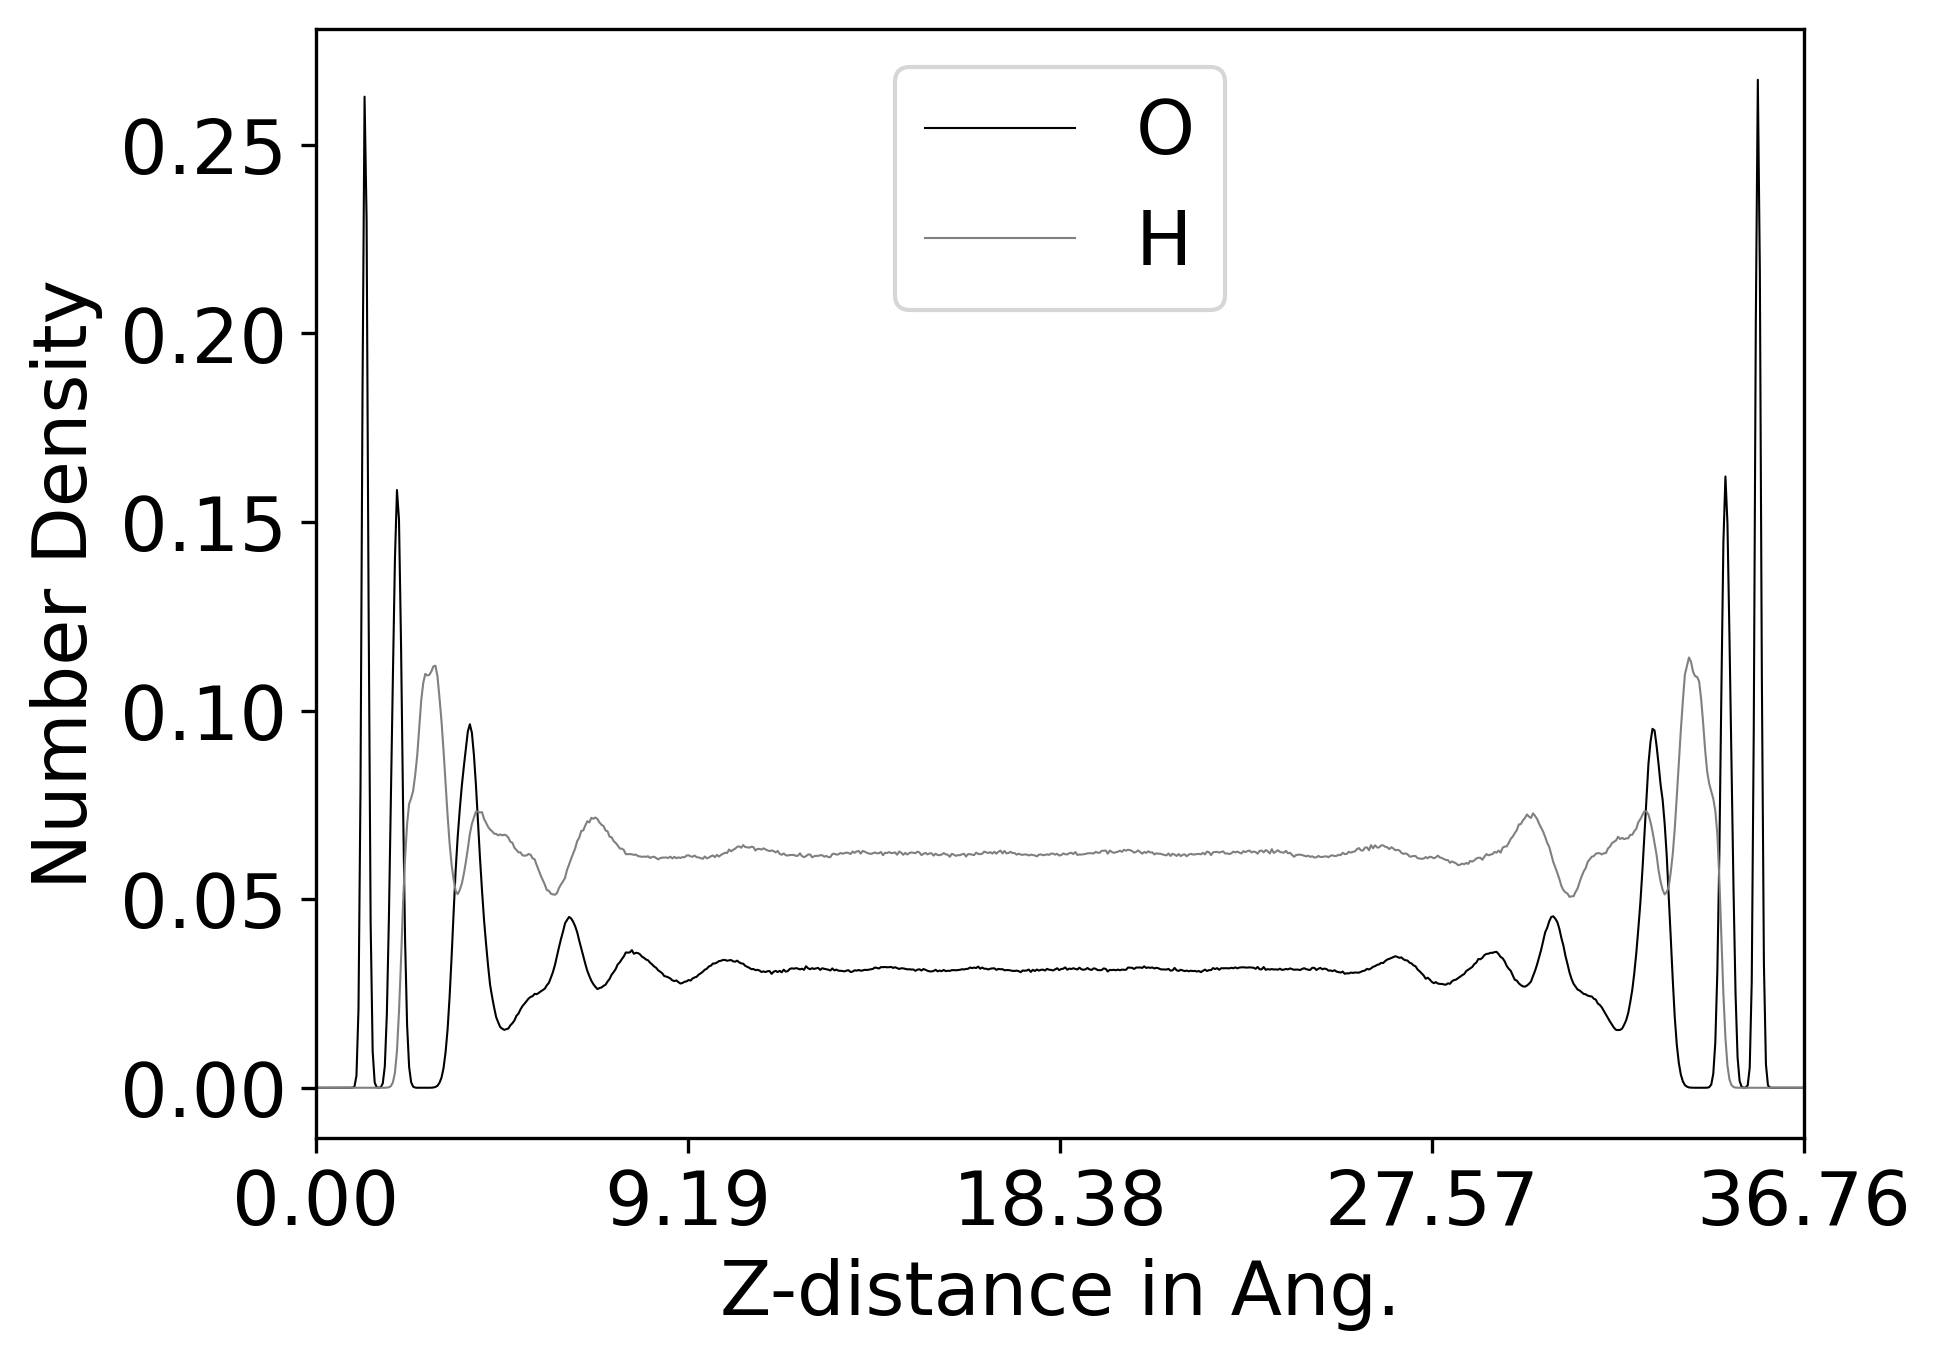
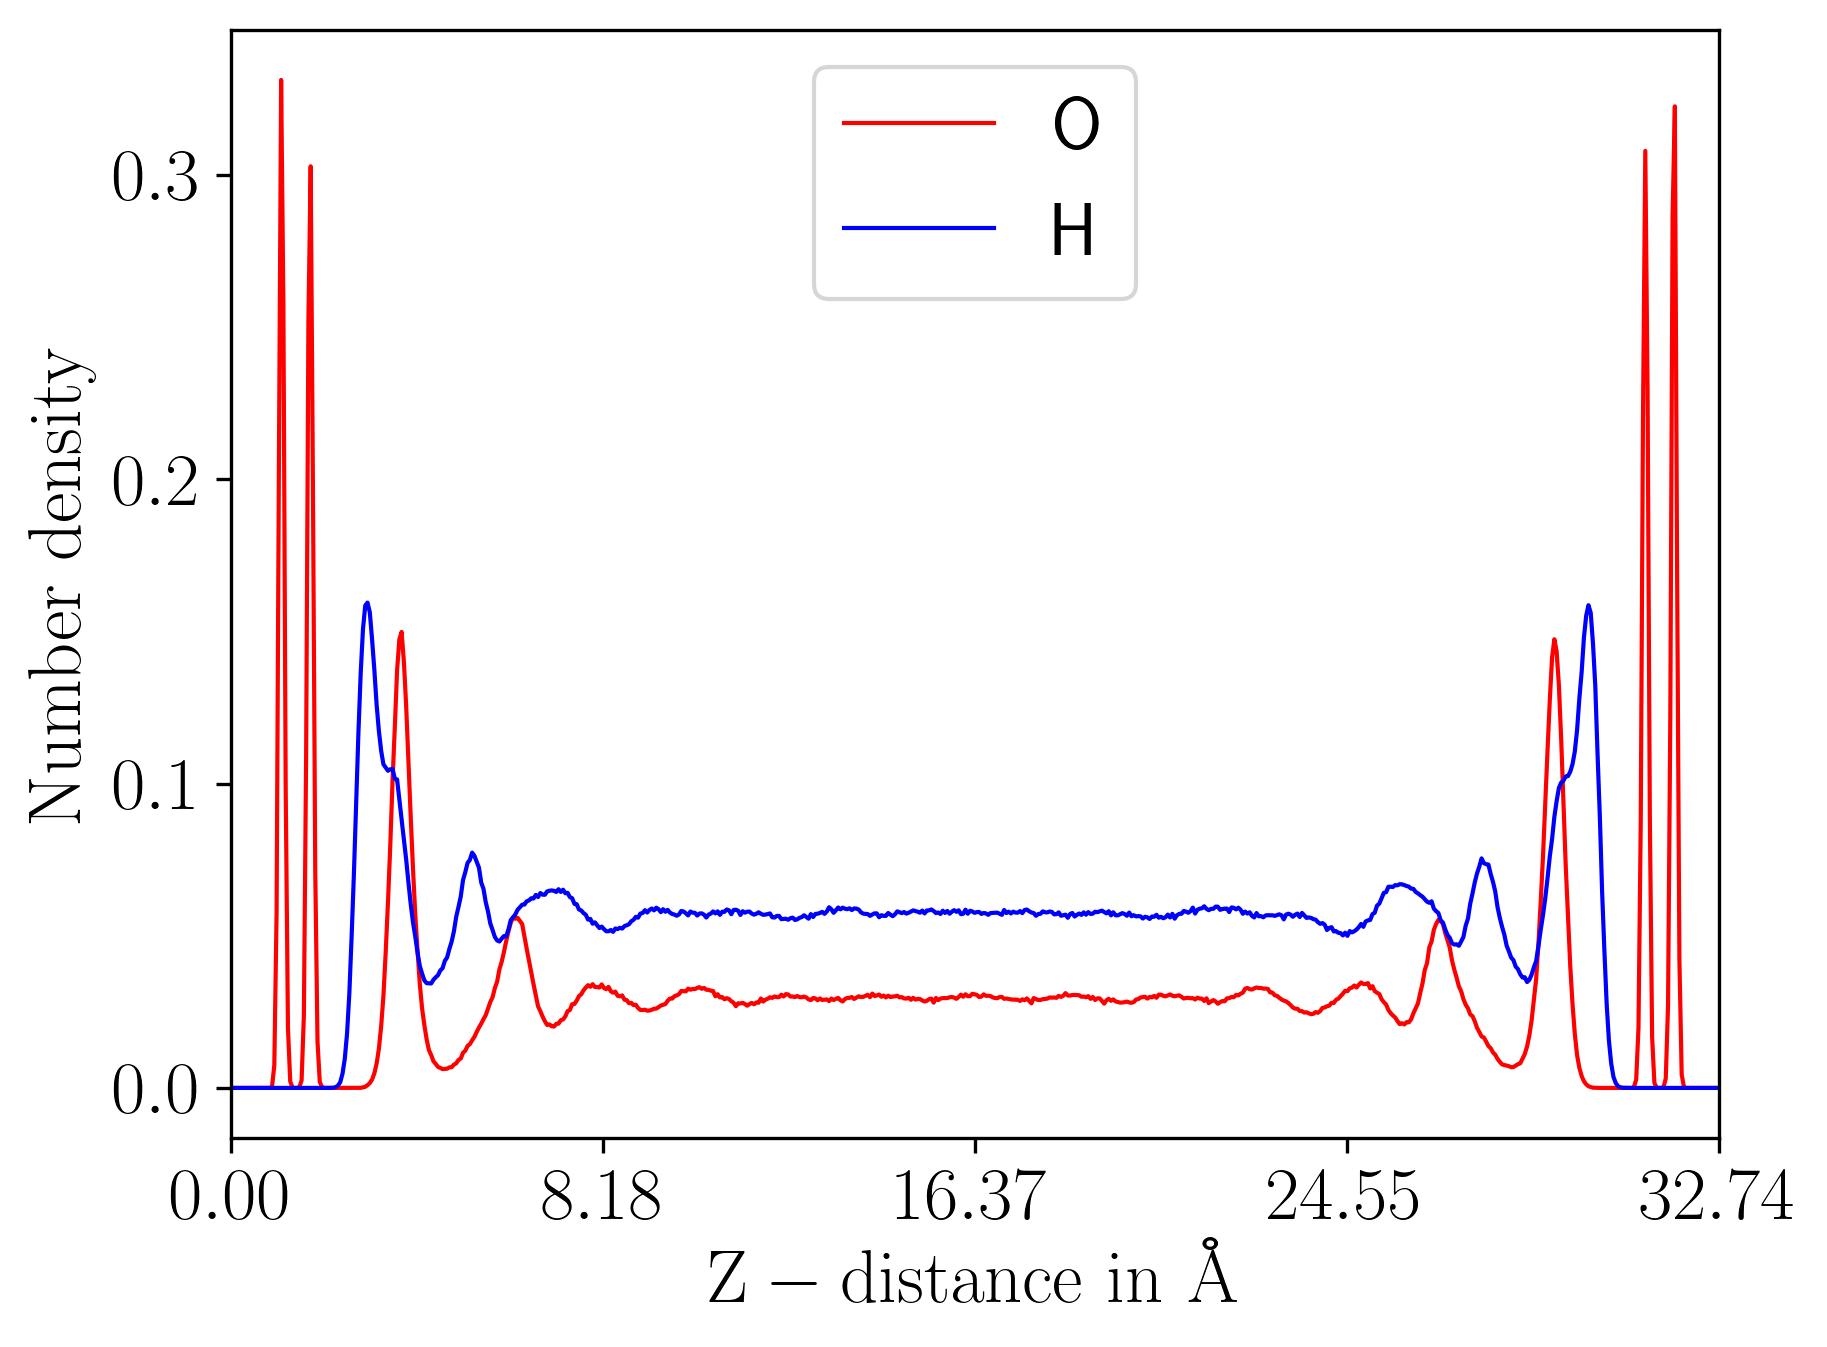
5 layer DP

diff --git a/DENSITY/post_process.py b/DENSITY/post_process.py
@@ -1,4 +1,5 @@
 #%%
+import sys
 from dataclasses import dataclass
 from pathlib import Path
 import numpy as np
@@ -6,7 +7,7 @@ import pandas as pd
 from matplotlib import pyplot as plt
 import matplotlib
 font = {'size'   : 18}
-#matplotlib.rc('text', usetex=True)
+matplotlib.rc('text', usetex=True)
 matplotlib.rc('font', **font)
 # %%
 @dataclass
@@ -49,29 +50,50 @@ class TrajProcessor():
 
     def _identify_cus_bri(self, idx):
         atoms = self.init_strucs[idx]
-        max_Ir_Z = max([atom.z for atom in atoms if atom.symbol == 'Ir'])
-        #These Iridiums are expected to stay put
-        Ir_bri = np.array([atom.index for atom in atoms if (atom.symbol == 'Ir') and (atom.z == max_Ir_Z)])
-        Ir_cus = np.array([atom.index for atom in atoms if (atom.symbol == 'Ir' and (np.round(max_Ir_Z - atom.z, 4) == 0.0953) and atom.index not in Ir_bri)])
-        #Everything else can be dynamic and is counted in a general way
-        O_cus = np.array([atom.index for atom in atoms if (atom.symbol == 'O' and atom.z > max_Ir_Z and min(atoms.get_distances(atom.index, Ir_cus, mic=True))<2.4 and min(atoms.get_distances(atom.index, Ir_bri, mic=True))>2.4)])
-        return max_Ir_Z, Ir_bri, Ir_cus, O_cus
+        O_cus, O_bri = [], []
+        O_cus_Z = [np.round(self.iridium_surf_Zs[0]+1.99074, 2),
+                   np.round(self.iridium_surf_Zs[1]-2.00916, 2)]
+        O_bri_Z = [np.round(self.iridium_surf_Zs[0]+1.23, 2),
+                   np.round(self.iridium_surf_Zs[1]-1.23, 2)]
+        for atom in atoms:
+            if atom.symbol == 'O':
+                if np.round(atom.z, 2) in O_cus_Z:
+                    O_cus.append(atom.index)
+                elif np.round(atom.z, 2) in O_bri_Z:
+                    O_bri.append(atom.index)
+        return O_cus, O_bri
 
-    def _count_bridge(self, atoms, Ir_bri, Ir_cus, max_Ir_Z):
-        O_bri = np.array([atom.index for atom in atoms if (atom.symbol == 'O' and atom.z > max_Ir_Z and min(atoms.get_distances(atom.index, Ir_bri, mic=True))<2.4 and min(atoms.get_distances(atom.index, Ir_cus, mic=True))>2.4)])
-        H_interface = np.array([atom.index for atom in atoms if (atom.symbol == 'H') and (atom.z < max_Ir_Z+4.0) and (atom.z > max_Ir_Z)])
-        H_bri = np.array([atom.index for atom in atoms if (atom.index in H_interface ) and min(atoms.get_distances(atom.index, O_bri, mic=True))<1.1])
-        bri_O_H2, bri_O_H, bri_O_c =[], [], []
+    def _count_bridge(self, atoms, O_bri):
+        H_interface = np.array([atom.index for atom in atoms if
+                                (atom.symbol == 'H') and
+                                ((atom.z < self.iridium_surf_Zs[0]+4.0) or
+                                 (atom.z > self.iridium_surf_Zs[1]-4.0))])
+        H_bri = np.array([atom.index for atom in atoms if
+                            atom.index in H_interface and
+                            min(atoms.get_distances(atom.index, O_bri, mic=True))<=1.1])
+        bri_OH2, bri_OH, bri_Oc = [], [], []
         if len(H_bri)>0:
-            bri_O_H2 = [atom.index for atom in atoms if atom.index in O_bri and len([d for d in atoms.get_distances(atom.index, H_bri, mic=True) if d<1.1])==2]
-            bri_O_H = [atom.index for atom in atoms if atom.index in O_bri and len([d for d in atoms.get_distances(atom.index, H_bri, mic=True) if d<1.1])==1]
-            bri_O_c = [atom.index for atom in atoms if atom.index in O_bri and len([d for d in atoms.get_distances(atom.index, H_bri, mic=True) if d<1.1])==0]
+            for atom in atoms:
+                if atom.index in O_bri:
+                    no_of_H = len([d for d in
+                            atoms.get_distances(atom.index, H_bri, mic=True)
+                            if d<1.1])
+                    if no_of_H==2:
+                        bri_OH2.append(atom.index)
+                    if no_of_H==1:
+                        bri_OH.append(atom.index)
+                    if no_of_H==0:
+                        bri_Oc.append(atom.index)
         else:
-            bri_O_c = O_bri
-        return atoms.info['time'], atoms.info['md_energy'], O_bri, bri_O_H2, bri_O_H, bri_O_c
+            bri_Oc = O_bri
+        return atoms.info['time'], atoms.info['md_energy'], bri_OH2, bri_OH, bri_Oc
 
     def _count_cus(self, atoms, Ir_bri, Ir_cus, max_Ir_Z):
-        O_cus = np.array([atom.index for atom in atoms if (atom.symbol == 'O' and atom.z > max_Ir_Z and min(atoms.get_distances(atom.index, Ir_cus, mic=True))<2.4 and min(atoms.get_distances(atom.index, Ir_bri, mic=True))>2.4)])
+        O_cus = np.array([atom.index for atom in
+                          atoms if (atom.symbol == 'O' and
+                          atom.z > max_Ir_Z and
+                          min(atoms.get_distances(atom.index, Ir_cus, mic=True))<2.4 and
+                          min(atoms.get_distances(atom.index, Ir_bri, mic=True))>2.4)])
         H_interface = np.array([atom.index for atom in atoms if (atom.symbol == 'H') and (atom.z < max_Ir_Z+4.0) and (atom.z > max_Ir_Z)])
         O_interface = np.array([atom.index for atom in atoms if (atom.symbol == 'O') and (atom.z < max_Ir_Z+4.0) and (atom.z > max_Ir_Z)])
 
@@ -88,16 +110,22 @@ class TrajProcessor():
                                 path_save_plot=None):
         for i, index in enumerate(range(self.sim_indices[0], 1+self.sim_indices[1], 1)):
             print("Building surface comp df for index ", index)
-            _max_Ir_Z, _Ir_bri, _Ir_cus, _O_cus = self._identify_cus_bri(idx=i)
+            O_cus_all, O_bri_all = self._identify_cus_bri(idx=i)
+            print("Identified ", len(O_bri_all), "bridge and ", len(O_cus_all), "cus oxygens")
             bri_df, cus_df = [], []
             for atoms in self.trajs[i][::self.skip_n_frames]:
                 free_ener = self.calc_free_energy(atoms)
-                time, ener, O_bri, bri_O_H2, bri_O_H, bri_O_c =  self._count_bridge(atoms=atoms, Ir_bri=_Ir_bri, Ir_cus=_Ir_cus, max_Ir_Z=_max_Ir_Z)
-                append_this_bri = pd.DataFrame([{'Time': time, 'Tot_Energy': ener, 'Free_Energy':free_ener, 'OH2': len(bri_O_H2), 'OH': len(bri_O_H), 'O': len(bri_O_c), 'All': len(O_bri)}])
-                bri_df.append(append_this_bri)
-                time, ener, O_cus, cus_O_H2, cus_O_H, cus_O_c, cus_O_O =  self._count_cus(atoms=atoms, Ir_bri=_Ir_bri, Ir_cus=_Ir_cus, max_Ir_Z=_max_Ir_Z)
-                append_this_cus = pd.DataFrame([{'Time': time, 'Tot_Energy': ener, 'Free_Energy':free_ener, 'OH2': len(cus_O_H2), 'OH': len(cus_O_H), 'O': len(cus_O_c), 'OO': len(cus_O_O), 'All': len(O_cus)}])
-                cus_df.append(append_this_cus)
+                time, ener, bri_O_H2, bri_O_H, bri_O_c =  self._count_bridge(atoms=atoms, O_bri=O_bri_all)
+                bri_df.append(pd.DataFrame([{'Time': time,
+                                             'Tot_Energy': ener,
+                                             'Free_Energy':free_ener,
+                                             'OH2': len(bri_O_H2),
+                                             'OH': len(bri_O_H),
+                                             'O': len(bri_O_c),
+                                             'All': len(O_bri_all)}]))
+                # time, ener, O_cus, cus_O_H2, cus_O_H, cus_O_c, cus_O_O =  self._count_cus(atoms=atoms, Ir_bri=_Ir_bri, Ir_cus=_Ir_cus, max_Ir_Z=_max_Ir_Z)
+                # append_this_cus = pd.DataFrame([{'Time': time, 'Tot_Energy': ener, 'Free_Energy':free_ener, 'OH2': len(cus_O_H2), 'OH': len(cus_O_H), 'O': len(cus_O_c), 'OO': len(cus_O_O), 'All': len(O_cus)}])
+                # cus_df.append(append_this_cus)
             bri_df = pd.concat(bri_df)
             cus_df = pd.concat(cus_df)
             filepath = Path.cwd()/'CSVs'
@@ -254,26 +282,38 @@ class TrajProcessor():
 
     def plot_density_profile(self):
         print("Plotting density profile")
+        print("WARNING: For Density Profile, try to provide only 1 simulation to avoid wrong surface-Z referencing")
+        # Surface Z for the first traj
+        ref_im = self.trajs[0][0]
+        cell_z = ref_im.get_cell()[2,2]
+        surf_Zs = [0,999]
+        for atom in ref_im:
+            if atom.symbol == 'Ir':
+                if atom.z < cell_z/2:
+                    surf_Zs[0] = max(surf_Zs[0], atom.z)
+                if atom.z > cell_z/2:
+                    surf_Zs[1] = min(surf_Zs[1], atom.z)
+        print(f"Identified surfaces at Z={surf_Zs}")
         traj_all = []
         for traj in self.trajs:
             for im in traj[100:]:
                 traj_all.append(im)
         z_O, z_H = [], []
         for im in traj_all:
-            ind_O = [atom.index for atom in im if (atom.symbol=='O' and
-                                                   0.5+self.iridium_surf_Zs[0]<atom.z<self.iridium_surf_Zs[1]-0.5)]
-            z_O.append(np.array(im.get_positions()[ind_O, 2]))
-            ind_H = [atom.index for atom in im if (atom.symbol=='H' and
-                                                   0.5+self.iridium_surf_Zs[0]<atom.z<self.iridium_surf_Zs[1]-0.5)]
-            z_H.append(np.array(im.get_positions()[ind_H, 2]))
+            for atom in im:
+                if atom.symbol == 'O' and 0.5+surf_Zs[0]<atom.z<surf_Zs[1]-0.5:
+                    z_O.append(atom.position[-1])
+                elif atom.symbol == 'H' and 0.5+surf_Zs[0]<atom.z<surf_Zs[1]-0.5:
+                    z_H.append(atom.position[-1])
         z_O, z_H = np.hstack(z_O), np.hstack(z_H)
-        z_O = [z-self.iridium_surf_Zs[0] for z in z_O]
-        z_H = [z-self.iridium_surf_Zs[0] for z in z_H]
+        
+        z_O = [z-surf_Zs[0] for z in z_O]
+        z_H = [z-surf_Zs[0] for z in z_H]
         # For conversion of number to mass density
         from scipy.constants import N_A
         Norm_H2O = (1./18.)*N_A/(10**(24))
-        Z_box = self.init_strucs[0].get_cell()[2,2]
-        Vbin = (self.init_strucs[0].get_volume()/Z_box)*0.05
+        Z_box = ref_im.get_cell()[2,2]
+        Vbin = (ref_im.get_volume()/Z_box)*0.05
         z_O, z_H = np.asarray(z_O), np.asarray(z_H)
         hist_O, bins_O = np.histogram(z_O, range=[0, Z_box],
                                       bins=int(Z_box/0.05))
@@ -284,17 +324,21 @@ class TrajProcessor():
 #        rho_H = hist_H/len(traj_all)/Vbin/Norm_H2O #Output as g/ml
         rho_O = hist_O/len(traj_all)/Vbin #Output as number_count
         rho_H = hist_H/len(traj_all)/Vbin #Output as number_count
-        from matplotlib.ticker import MultipleLocator
-        plt.plot(bins_O, rho_O, lw=0.5, color='k', label='O')
-        plt.plot(bins_H, rho_H, lw=0.5, color='gray', label='H')
-        plt.xlabel('Z-distance in Ang.')
-        plt.ylabel('Number Density')
-        plt.xlim(0, self.iridium_surf_Zs[1]-self.iridium_surf_Zs[0])
-        plt.xticks(np.linspace(0, self.iridium_surf_Zs[1]-self.iridium_surf_Zs[0], 5))
-        plt.legend()
-#        plt.yticks(range(0, int(np.ceil(max(rho_O))),1))
+
+        d_profile_arr = np.asarray([bins_O, rho_O, rho_H])
         filepath = Path.cwd()/'TRENDs'
         filepath.mkdir(parents=True, exist_ok=True)
+        np.savetxt(filepath/"density_prof.csv", d_profile_arr, delimiter=',', fmt='%.3f')
+
+        from matplotlib.ticker import MultipleLocator
+        plt.plot(bins_O, rho_O, lw=1.0, color='r', label='O')
+        plt.plot(bins_H, rho_H, lw=1.0, color='b', label='H')
+        plt.xlabel('$\mathrm {Z-distance\ in\ \AA}$')
+        plt.ylabel('$\mathrm {Number\ density}$')
+        plt.xlim(0, surf_Zs[1]-surf_Zs[0])
+        plt.xticks(np.linspace(0, surf_Zs[1]-surf_Zs[0], 5))
+        plt.legend()
+#        plt.yticks(range(0, int(np.ceil(max(rho_O))),1))
         plt.savefig(filepath/f"density.png", dpi=300, bbox_inches='tight')
 # %%
 def main():
@@ -307,7 +351,7 @@ def main():
     simulationGroup = TrajProcessor(sim_indices=sim_indices,
                                     sim_paths=sim_paths,
                                     init_struc_paths=init_struc_paths,
-                                    iridium_surf_Zs = [4.39915211, 41.15683543],
+                                    iridium_surf_Zs = [6.03962973, 39.16784865],
                                     skip_n_frames=200)
 #    simulationGroup.build_surf_compositions(path_save_csv=Path.cwd()/'CSVs',
 #                                            make_plots_bars=False, make_plots_lines=True,
